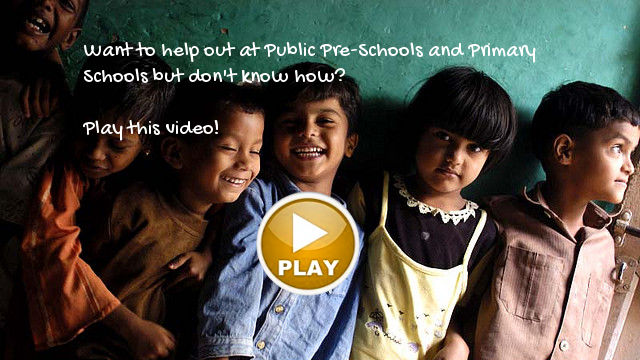
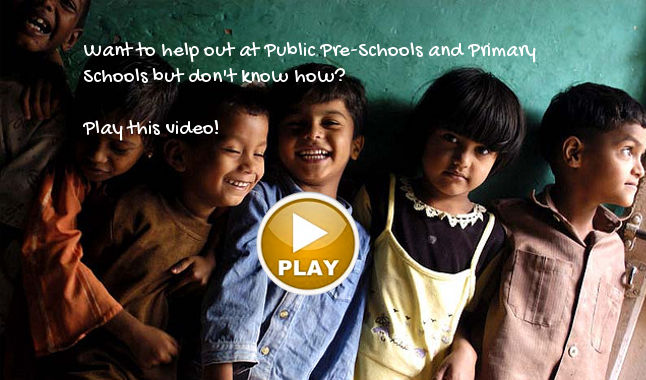
minor style changes for sys video

diff --git a/templates/klp.html b/templates/klp.html
@@ -5,7 +5,7 @@ $var btags:onLoad=getSysInfo();
 <script src="http://platform.twitter.com/widgets.js" type="text/javascript"></script>
 
 <div id="content" class="container container_12">
-  <div class="grid_12" id="homecontent">
+  <div class="grid_12" id="contentfiller">
   <!--div class="grid_4 push_point_75"-->
     <div class="grid_4">
       <div id="general">Karnataka Learning Partnership is a public space where all citizens can contribute to the cause of ensuring better schools and schooling for our children. Better education will ensure better human development and prosperity for our citizens. <a href="/text/aboutus">Know more ...</a>
@@ -24,7 +24,7 @@ $var btags:onLoad=getSysInfo();
       <div class="grid_8">
       <img src='/images/sys_top.jpg' width='646px'/>
       <div onclick="thevid=document.getElementById('thevideo'); thevid.style.display='block'; this.style.display='none'">
-      <img src="/images/sys_video.jpg" style="cursor:pointer;padding-left:3px;padding-top:10px;" /></div>
+      <img src="/images/sys_video.jpg" style="cursor:pointer;" /></div>
       <div id="thevideo" style="display:none">
       <object width="640" height="360"><param name="movie" value="http://www.youtube.com/v/BQBsAjlBTHw?hl=en_GB&amp;version=3&amp;autoplay=1"></param><param name="allowFullScreen" value="true"></param><param name="allowscriptaccess" value="always"></param><embed src="http://www.youtube.com/v/BQBsAjlBTHw?hl=en_GB&amp;version=3&amp;autoplay=1" type="application/x-shockwave-flash" width="640" height="360" allowscriptaccess="always" allowfullscreen="true"></embed></object>
       </div>

diff --git a/css/home.css b/css/home.css
@@ -135,14 +135,7 @@
 #general a:visited{color: white;}
 #general a:hover {color: black;}
 
-#thevideo{
-  padding-left: 3px;
-  padding-top: 10px;
-}
-
-#homecontent {
-  background-color: #FFF;
-  position:relative;
-  top:92px;
-  z-index:1;
+#thevideo {
+  padding-left:3px;
+  padding-top:10px;
 }
